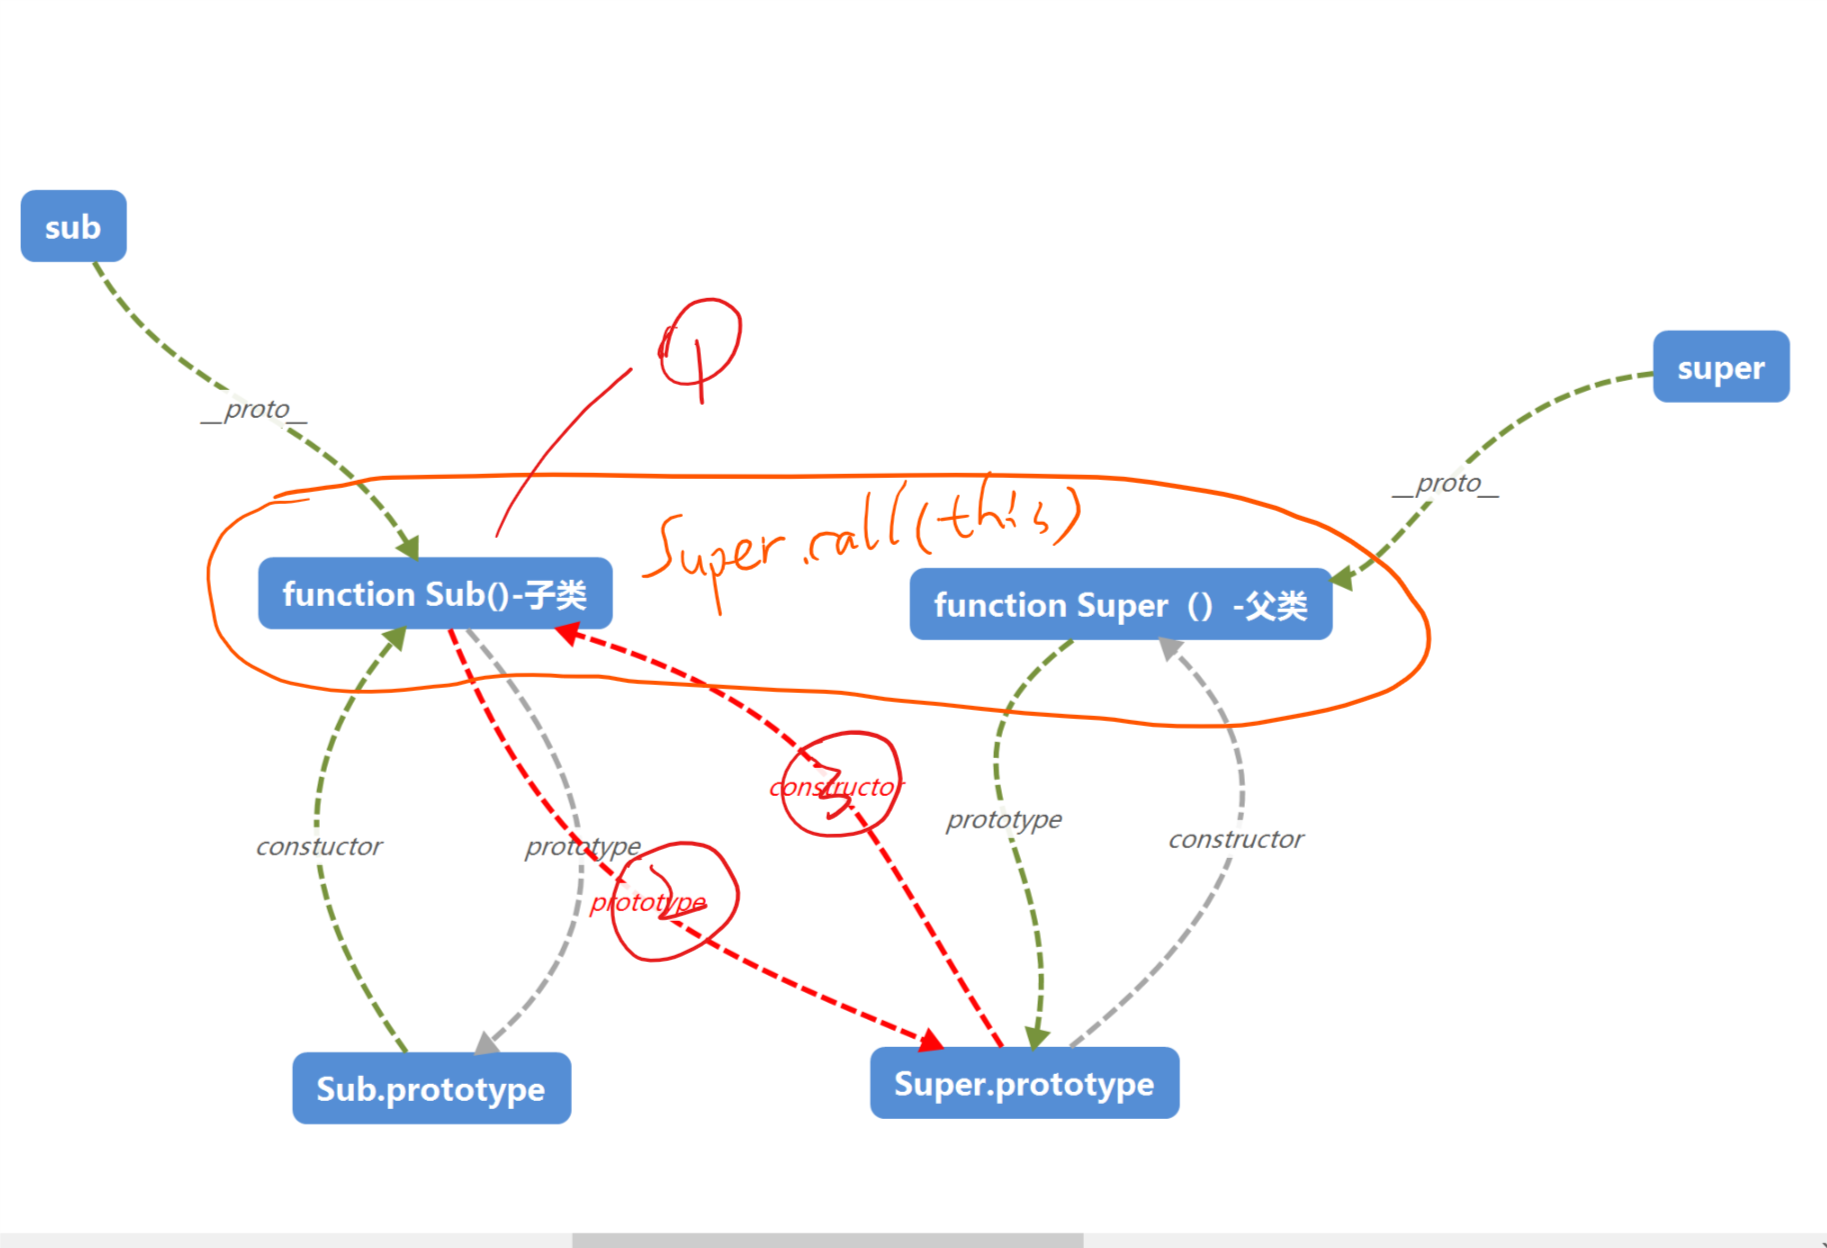
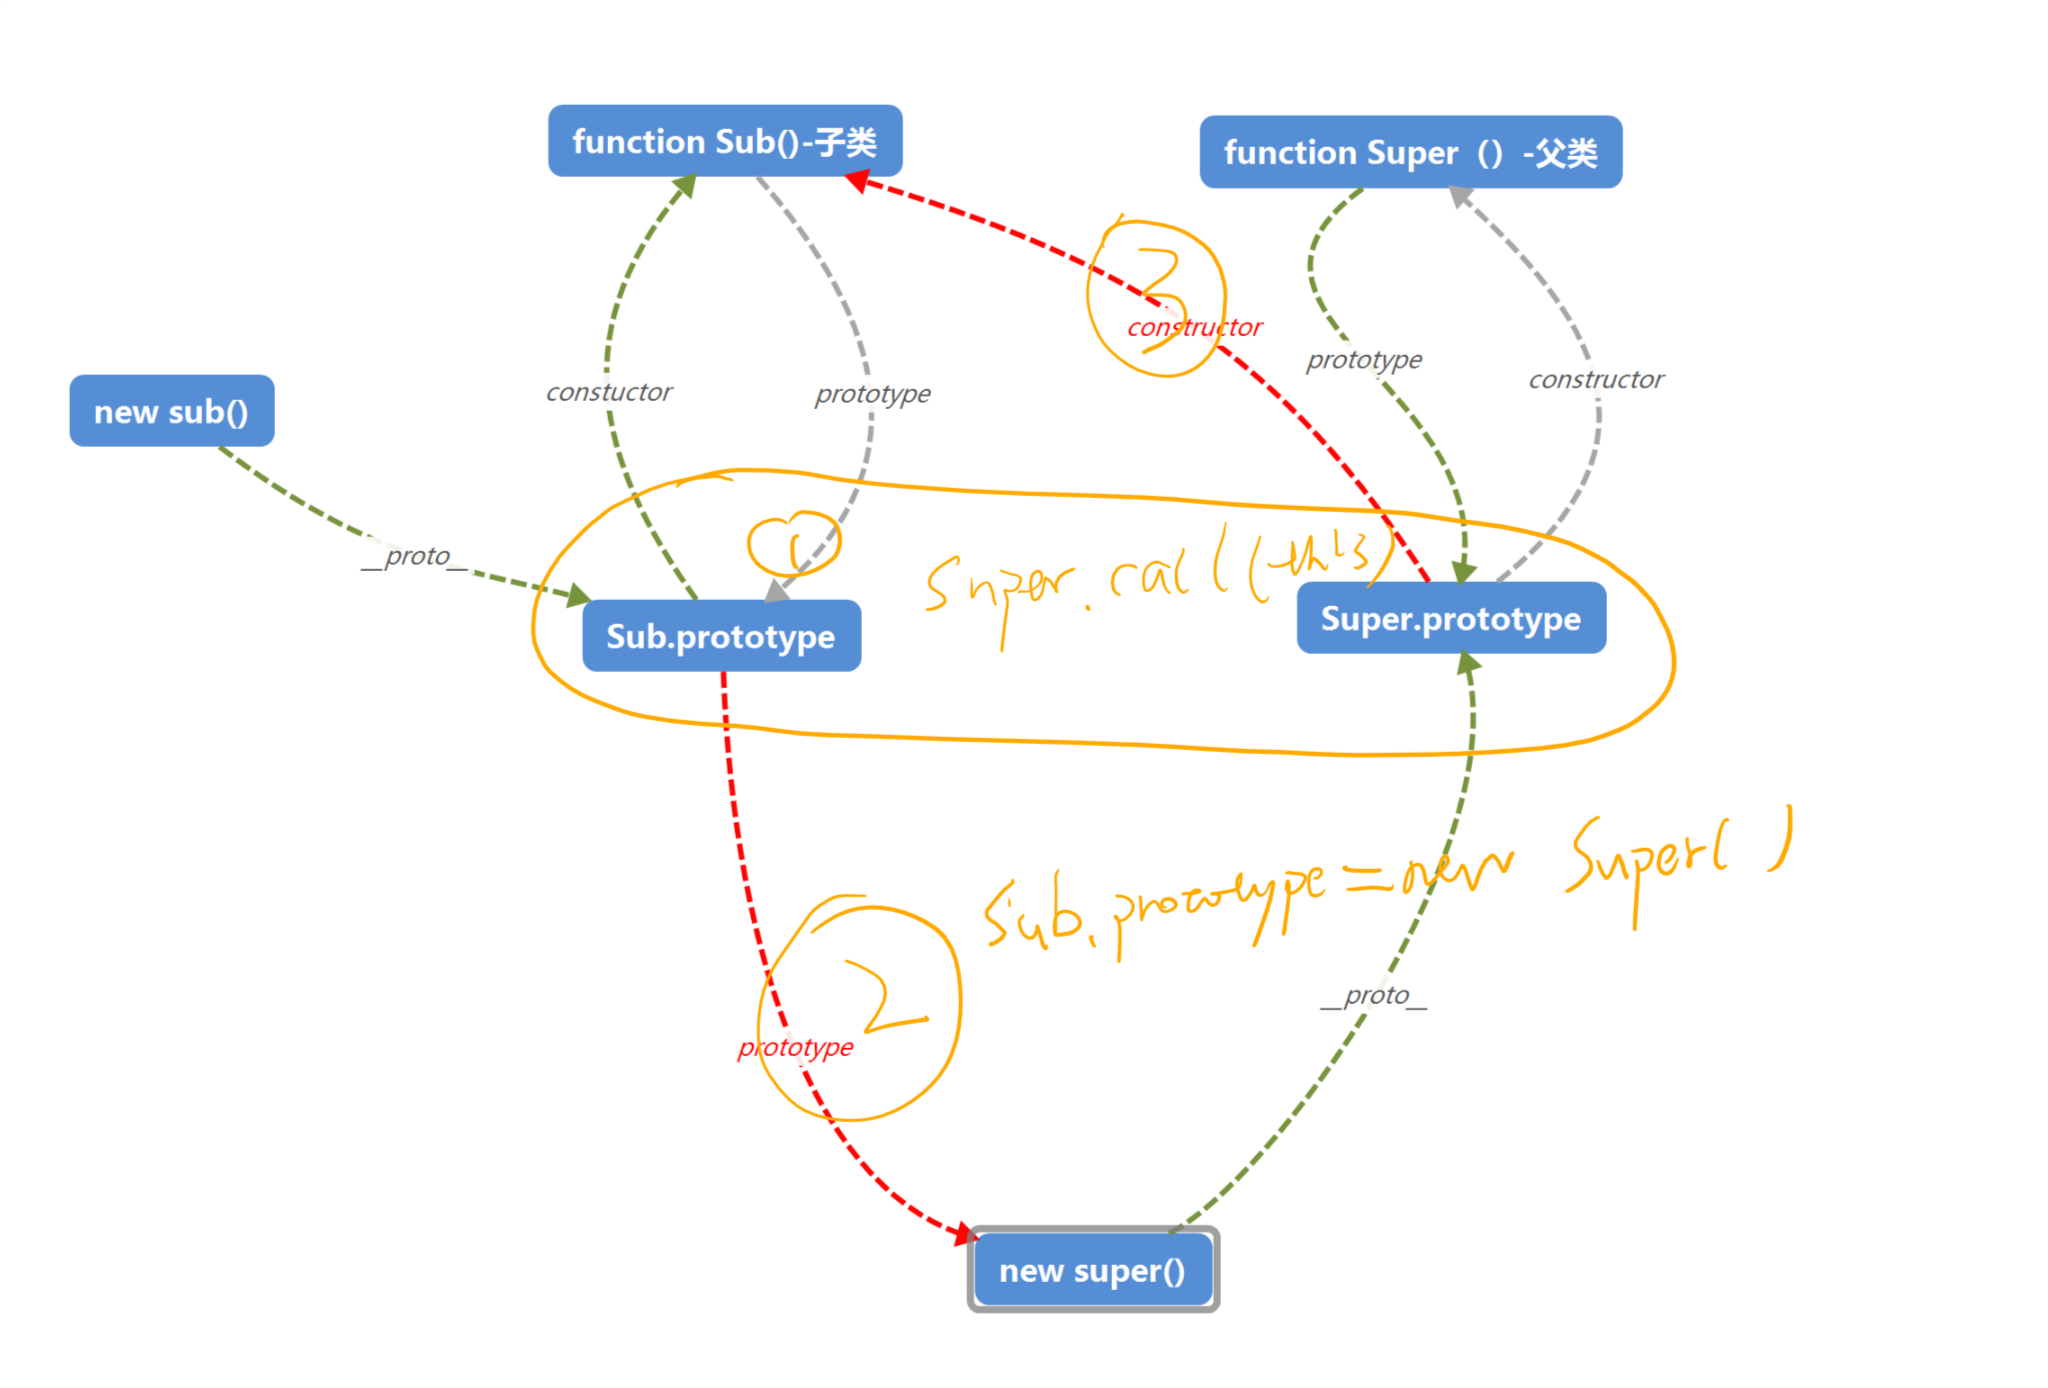
JavaScript继承

diff --git a/基础知识点深入/深入—JavaScript继承.md b/基础知识点深入/深入—JavaScript继承.md
@@ -6,7 +6,11 @@
 
 > 导论： 文章主要讲JavaScript继承实现原理—主要是以原型链式继承为主。首先聊聊原型链，继承是建立在原型链基础上；接着ES5中，继承的实现；接着是ES6中继承的实现；对比ES5继承与ES6继承不同，更深层次了解。
 
+
+
 ## 0. 继承不同方式
+
+
 
 #### 1.Mixin混合继承（浅拷贝）
 
@@ -25,6 +29,8 @@ function mixin(source, target) {
 mixin(MyMixin, MyClass.prototype);
 ```
 
+这种方式，一般不太常见，最常见的方式，还是原型链继承。
+
 
 
 #### 2. 原型链继承
@@ -37,7 +43,11 @@ mixin(MyMixin, MyClass.prototype);
 
 下面就正式聊聊原型链继承：
 
+
+
 ## 1. ES5 继承
+
+主要以原型链继承为主。
 
 #### 0. 继承之前 原型链状态
 
@@ -45,23 +55,108 @@ mixin(MyMixin, MyClass.prototype);
 
 ![继承之前](./img/原型链0.png)
 
-#### 1. 继承步骤
+#### 1. 继承基本步骤
 
 1. 子类构造器中调用父类构造器—— Super.call(this)
 
-2. Sub.prototype = Object.create(Super.prototype);
-
-    也可以写成Sub.prototype = new Super();
-    	要将它赋值为Object.create(Super.prototype)，而不是直接等于Super.prototype。否则后面两行对Sub.prototype的操作，会连父类的原型Super.prototype一起修改掉
-    	Object.create第二个参数，使constructor不能枚举（enumberable:false）——因为constructor本身是不可枚举的
+2. Sub.prototype = new Super();
 
 3. Sub.prototype.constructor = Sub;
+
+    ```javascript
+    //具体代码
+    function Sub(value) {
+      Super.call(this);
+    }//step1
+    Sub.prototype = new Super(); //step2 也可以是 new Super();
+    Sub.prototype.constructor = Sub;// step3
+    ```
+
+**细节解析:**
+
+	**要将它赋值为new Super()，而不是直接等于Super.prototype。**
+
+	**否则后面两行对Sub.prototype的操作，会连父类的原型Super.prototype一起修改掉。**
+
+
+
+#### 2. 上面步骤优化
+
+##### 1. 优化1 
+
+```javascript
+//步骤2
+Sub.prototype = new Super();
+//改成：
+Sub.prototype = Object.create(Super.prototype);
+```
+
+**细节解析：**
+
+1. `Sub.prototype = new Super();`上面这种写法也有继承的效果，但是子类会具有父类实例的方法。	
+
+2. [ `Object.create()`](https://developer.mozilla.org/zh-CN/docs/Web/JavaScript/Reference/Global_Objects/Object/create)方法解释，*方法创建一个新对象，使用现有的对象来提供新创建的对象的`__proto__ `*
+
+```javascript
+// Polyfill Object.create()——通过polyfill彻底理解
+Object.create = function(proto){
+       function F() {}
+        F.prototype = proto;
+        return new F();
+}
+```
+
+观察，上面代码，应该能读懂 `create`做了什么
+
+
+
+##### 2. 优化2
+
+```javascript
+//将 step2与step2 合在一起
+Sub.prototype = Object.create(Super.prototype, {
+    constructor: {
+      value: Sub,
+      enumerable: false,//不能枚举
+      writable: true,
+      configurable: true
+    }
+  });
+```
+
+**细节解析：**
+
+Object.create第二个参数，使constructor不能枚举（enumberable:false）——因为constructor本身是不可枚举的.
+
+最终优化后，结果看下面。
+
+
+
+#### 3. 优化后最终版本
+
+```javascript
+function Sub(value) {
+  Super.call(this);
+}//step1
+Object.create(Super.prototype, {
+    constructor: {
+      value: Sub,
+      enumerable: false,//不能枚举
+      writable: true,
+      configurable: true
+    }
+  });
+```
+
+
+
+#### 4. 对于基本步骤的图解
 
 继承之后原型链变成，具体参见下图：
 
 ![继承后](./img/prototype1.png)
 
-图解释：
+图解释(手画丑，见谅)：
 
 1. 圆圈表示上面步骤 1,2,3
 2. 红线表示改变后的原型链
@@ -72,6 +167,16 @@ mixin(MyMixin, MyClass.prototype);
 
 
 ## 2. ES6 继承
+
+ES6 继承，是用`extends`关键字来实现。是在ES5原型链继承基础上包装的一层语法糖。
+
+核心是学习，
+
+1. 这就语法糖怎么用
+
+2. 语法糖中一些细节
+
+   
 
 #### 1. 基本
 
@@ -94,7 +199,96 @@ class ColorPoint extends Point {
 
     因为子类自己的`this`对象，必须先通过父类的构造函数完成塑造，得到与父类同样的实例属性和方法，然后再对其进行加工，加上子类自己的实例属性和方法。如果不调用`super`方法，子类就得不到`this`对象。 
 
+
+
+#### 2. 静态方法继承
+
+```javascript
+//extends 父类的静态方法，也会被子类继承
+class A {
+  static hello() {
+    console.log('hello world');
+  }
+}
+
+class B extends A {
+}
+
+B.hello()  // hello world
+```
+
+#### 3. 继承实现细节
+
+##### 1. super关键字
+
+```javascript
+//伪代码
+if(子类的构造函数调用①){
+    super()//代表父类的构造函数constructor
+}else if(super作为对象时){
+    if(在普通方法中②){
+        //指向父类的原型对象
+    }else if(在静态方法中③){
+        //指向父类
+    }
+}
+```
+
+技术细节（上面代码，标有小圈的注释）
+
+① `super`虽然代表了父类`A`的构造函数，但是返回的是子类`B`的实例，即`super`内部的`this`指的是`B`，因此`super()`在这里相当于  `A.prototype.constructor.call(this) `
+
+```javascript
+class A {
+  constructor() {
+    console.log(new.target.name);
+  }
+}
+class B extends A {
+  constructor() {
+    super();
+  }
+}
+new A() // A
+new B() // B 注意是‘B’不是‘A’
+```
+
+`super()`只能用在子类的构造函数之中，用在其他地方就会报错。 
+
+```javascript
+class A {}
+
+class B extends A {
+  m() {
+    super(); // 报错
+  }
+}
+```
+
+②使用`super`的时候，必须显式指定是作为函数、还是作为对象使用，否则会报错。 
+
+```javascript
+class A {}
+
+class B extends A {
+  constructor() {
+    super();
+    console.log(super); // 报错
+  }
+}
+```
+
+
+
+③`this`还是谁调用，就是谁。这个规则，一直都没有被违背。
+
  
+
+#### 4. ES6实现继承原理初探
+
+类的 prototype 属性和__proto__属性
+
+
 
 ## 3. ES6继承及与ES5继承不同
 
